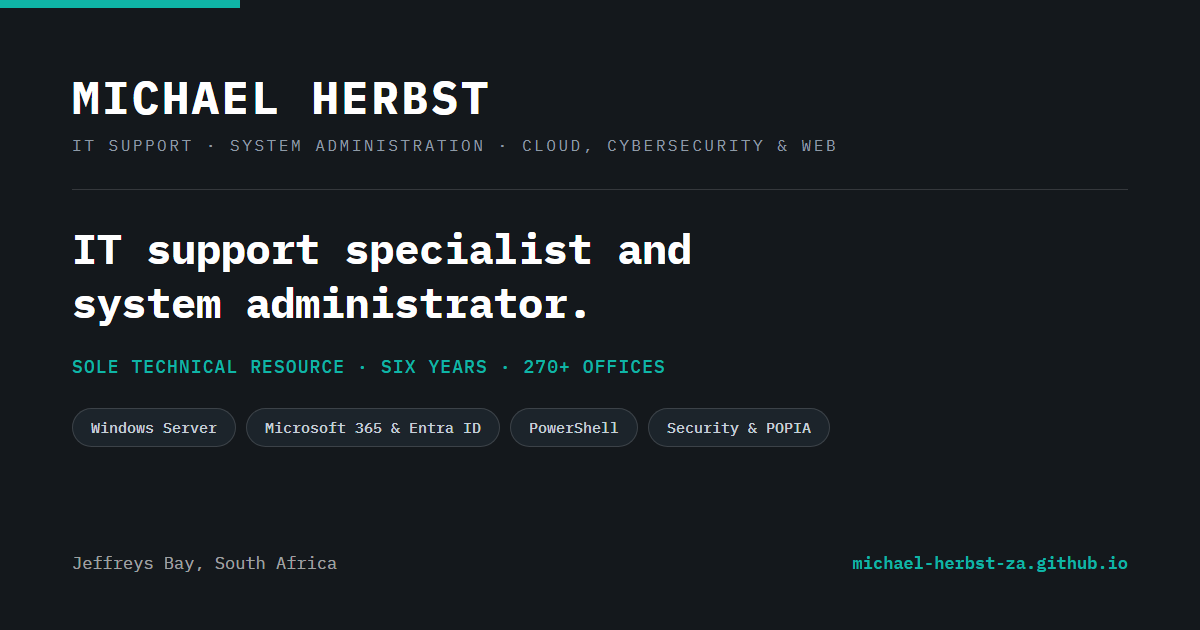
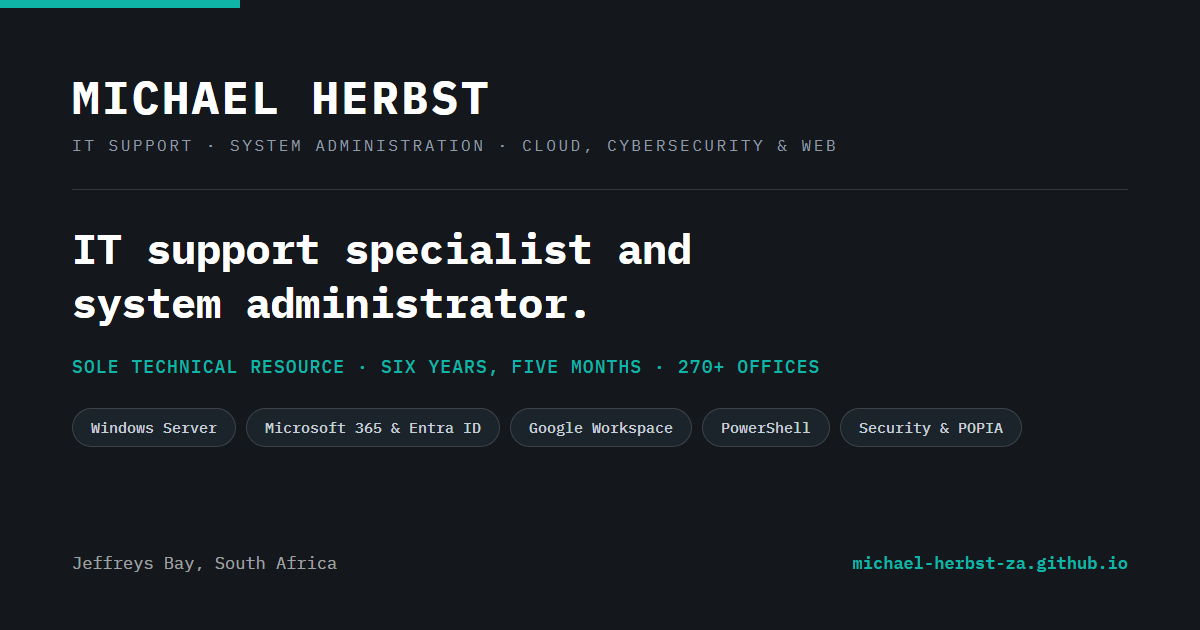
Sync CV site with current locked facts and evidence bank
- Remove YouTube channel "launched" claims across all pages; source
  records conflict on launch status, so wording now matches the CV
  suite's safe framing: proposed and approved video-training and
  user-guide programme.
- Add Google Workspace Business administration (Kouga Digital, sole
  admin) throughout: hero, stat strip, skills rows, experience
  bullets, learning page, JSON-LD, meta descriptions. Previously
  absent from the entire site despite being current confirmed work.
- Add LinkedIn link to every page footer and the index hero/CTA,
  plus JSON-LD sameAs. Part of the default CV contact set but
  missing site-wide.
- Align Civilsoft display dates to December 2019 - May 2026 per the
  30 August 2026 locked-facts ruling, superseding the older
  14 August year-only rule.
- Update README content-source section and site rules to match.
- Bump sitemap.xml lastmod dates.
- Refresh assets/og.png social preview image: add Google Workspace
  chip, "six years, five months" strap.

Changed region(s): [[0.4008, 0.573, 0.6783, 0.6032], [0.4317, 0.6635, 0.6783, 0.6937], [0.7092, 0.6635, 0.8325, 0.6937]]

diff --git a/index.html b/index.html
@@ -4,14 +4,14 @@
   <meta charset="UTF-8">
   <meta name="viewport" content="width=device-width, initial-scale=1.0">
   <title>Michael Herbst &middot; Curriculum Vitae</title>
-  <meta name="description" content="Curriculum vitae of Michael Herbst: IT support specialist and system administrator in Jeffreys Bay, South Africa. Six years as sole technical resource for engineering software used in over 270 offices; Windows Server, Microsoft 365, Entra ID, databases, automation and security.">
+  <meta name="description" content="Curriculum vitae of Michael Herbst: IT support specialist and system administrator in Jeffreys Bay, South Africa. Six years as sole technical resource for engineering software used in over 270 offices; Windows Server, Microsoft 365, Entra ID, Google Workspace, databases, automation and security.">
   <meta name="theme-color" content="#0a7a70">
   <link rel="canonical" href="https://michael-herbst-za.github.io/">
   <link rel="icon" type="image/svg+xml" href="assets/favicon.svg">
   <meta property="og:type" content="profile">
   <meta property="og:site_name" content="Michael Herbst &middot; Curriculum Vitae">
   <meta property="og:title" content="Michael Herbst &middot; IT Support Specialist &amp; System Administrator">
-  <meta property="og:description" content="Six years as the sole technical resource for engineering software used in over 270 South African offices. Windows Server, Microsoft 365 and Entra ID, databases, automation, security and public-sector tendering.">
+  <meta property="og:description" content="Six years as the sole technical resource for engineering software used in over 270 South African offices. Windows Server, Microsoft 365 and Entra ID, Google Workspace, databases, automation, security and public-sector tendering.">
   <meta property="og:url" content="https://michael-herbst-za.github.io/">
   <meta property="og:locale" content="en_ZA">
   <meta property="og:image" content="https://michael-herbst-za.github.io/assets/og.png">
@@ -40,7 +40,7 @@
     "url": "https://michael-herbst-za.github.io/",
     "nationality": "South African",
     "knowsLanguage": ["en", "af", "st"],
-    "sameAs": ["https://www.kougadigital.co.za/"],
+    "sameAs": ["https://www.kougadigital.co.za/", "https://linkedin.com/in/michael-herbst-za"],
     "address": {
       "@type": "PostalAddress",
       "addressLocality": "Jeffreys Bay",
@@ -63,6 +63,7 @@
       "Microsoft 365 administration",
       "Microsoft Entra ID",
       "Microsoft Intune",
+      "Google Workspace administration",
       "VPS administration",
       "Proxmox VE",
       "Hyper-V",
@@ -119,7 +120,8 @@
         across Windows Server and VPS infrastructure, Microsoft 365 and identity administration,
         MySQL and Access databases, PowerShell and Bash automation, and disciplined service-desk
         operations. Now running Kouga Digital, an independent IT, infrastructure, managed services
-        and web practice, while working through CompTIA Security+ and self-directed study across
+        and web practice, where I configured and solely administer the Google Workspace Business
+        environment, while working through CompTIA Security+ and self-directed study across
         cloud, security and AI tooling. Comfortable as the only technical person in a small
         organisation, equally at home resolving a user's ticket and administering the server behind it.
       </p>
@@ -131,7 +133,8 @@
         Jeffreys Bay &middot;
         <a href="tel:+27646765276">+27 64 676 5276</a> &middot;
         <a href="mailto:michael@kougadigital.co.za">michael@kougadigital.co.za</a> &middot;
-        <a href="mailto:michael.anthony.herbst@gmail.com">michael.anthony.herbst@gmail.com</a>
+        <a href="mailto:michael.anthony.herbst@gmail.com">michael.anthony.herbst@gmail.com</a> &middot;
+        <a href="https://linkedin.com/in/michael-herbst-za">LinkedIn</a>
       </p>
     </div>
   </section>
@@ -155,6 +158,10 @@
             <span class="stat-label">Microsoft 365 and identity administration across client and internal tenants.</span>
           </div>
           <div class="stat">
+            <span class="stat-value">Sole Admin</span>
+            <span class="stat-label">Configured and solely administer Kouga Digital's Google Workspace Business environment.</span>
+          </div>
+          <div class="stat">
             <span class="stat-value">SARAO &middot; SARB</span>
             <span class="stat-label">Among the public-sector bodies whose software bids I compiled and submitted.</span>
           </div>
@@ -173,8 +180,8 @@
         </div>
 
         <div class="item-row">
-          <span class="item-label">Microsoft 365, Identity &amp; Endpoint Administration:</span>
-          <p>Microsoft 365 tenant administration at Global Administrator level, covering Exchange Online, SharePoint Online, Teams and OneDrive; Active Directory and Microsoft Entra ID (formerly Azure Active Directory) user, group and role administration; conditional access and multi-factor enrolment; Intune endpoint and device management; licensing, distribution groups and shared mailboxes; Group Policy and Registry administration; device build, imaging and rollout; joiner, mover and leaver account administration with access removal and licence reclamation on exit.</p>
+          <span class="item-label">Cloud Productivity, Identity &amp; Endpoint Administration:</span>
+          <p>Microsoft 365 tenant administration at Global Administrator level, covering Exchange Online, SharePoint Online, Teams and OneDrive; Active Directory and Microsoft Entra ID (formerly Azure Active Directory) user, group and role administration; conditional access and multi-factor enrolment; Intune endpoint and device management; licensing, distribution groups and shared mailboxes; Group Policy and Registry administration; device build, imaging and rollout; joiner, mover and leaver account administration with access removal and licence reclamation on exit. Currently configure and solely administer Kouga Digital's Google Workspace Business environment, with broad capability across the Google Admin console, Gmail, Drive, Meet and Groups.</p>
         </div>
 
         <div class="item-row">
@@ -225,6 +232,7 @@
           <p class="entity-line">Independent IT, Infrastructure, Managed Services &amp; Web Practice &middot; <a href="https://www.kougadigital.co.za/">www.kougadigital.co.za</a></p>
           <ul>
             <li>Independent practice delivering IT support, infrastructure and web work for South African professional-services clients, run solo end to end from scoping through to handover.</li>
+            <li>Configured and solely administer Kouga Digital's Google Workspace Business environment, including ongoing maintenance.</li>
             <li>End-to-end engagement: requirements gathering, content strategy, hand-coded HTML and CSS, accessibility basics, JSON-LD structured data and local SEO, draft regulatory pages (POPIA, ECTA), and WordPress-to-static deployment for cPanel and Softaculous environments.</li>
             <li>Apply production and security checklists to every deployment, and maintain a living snags-and-gotchas record so a fault that has cost time once cannot cost time again.</li>
             <li>Use AI-assisted development and operations tooling to accelerate solo delivery while keeping hand-written, readable production code and configuration.</li>
@@ -232,7 +240,7 @@
         </article>
 
         <article class="card">
-          <p class="card-meta">St Francis Bay, Eastern Cape, South Africa &middot; 2019 &ndash; 2026</p>
+          <p class="card-meta">St Francis Bay, Eastern Cape, South Africa &middot; December 2019 &ndash; May 2026</p>
           <h3>Client Support Administrator <span class="job-employer">&middot; Civilsoft Systems CC</span></h3>
           <ul>
             <li>Sole technical resource for proprietary .NET engineering software used in over 270 South African offices, across six years and five months of continuous service.</li>
@@ -243,7 +251,7 @@
             <li>Managed cloud-hosted MySQL and on-premises Microsoft Access databases for client deployments: query support, backups, restores and integrity checks.</li>
             <li>Built PowerShell and Bash automation and Git-based versioning to streamline support, reporting and documentation tasks.</li>
             <li>Authored and maintained technical documentation, runbooks, training material and user guides; delivered remote and on-site training to non-technical clients.</li>
-            <li>Proposed and launched a YouTube training channel and an updated user-guide programme, formally approved and run alongside primary support duties.</li>
+            <li>Proposed and received approval for an updated video-training and user-guide programme, while continuing primary support duties.</li>
             <li>Owned client onboarding across the full product life cycle, and provided remote and on-site IT support for related companies.</li>
           </ul>
         </article>
@@ -341,7 +349,8 @@
       <p class="cta-note">
         Jeffreys Bay &middot;
         <a href="mailto:michael.anthony.herbst@gmail.com">michael.anthony.herbst@gmail.com</a> &middot;
-        <a href="https://www.kougadigital.co.za/">www.kougadigital.co.za</a>
+        <a href="https://www.kougadigital.co.za/">www.kougadigital.co.za</a> &middot;
+        <a href="https://linkedin.com/in/michael-herbst-za">LinkedIn</a>
       </p>
     </div>
   </section>
@@ -350,7 +359,7 @@
     <div class="wrap">
       <div class="footer-row">
         <span class="footer-brand">MICHAEL HERBST</span>
-        <span class="footer-contact"><a href="mailto:michael@kougadigital.co.za">michael@kougadigital.co.za</a> &middot; <a href="tel:+27646765276">+27 64 676 5276</a></span>
+        <span class="footer-contact"><a href="mailto:michael@kougadigital.co.za">michael@kougadigital.co.za</a> &middot; <a href="tel:+27646765276">+27 64 676 5276</a> &middot; <a href="https://linkedin.com/in/michael-herbst-za">LinkedIn</a></span>
       </div>
       <nav class="footer-nav" aria-label="Footer">
         <a href="index.html">Overview</a>

diff --git a/experience.html b/experience.html
@@ -4,14 +4,14 @@
   <meta charset="UTF-8">
   <meta name="viewport" content="width=device-width, initial-scale=1.0">
   <title>Experience &middot; Michael Herbst</title>
-  <meta name="description" content="Professional experience of Michael Herbst: Founder of Kouga Digital, six years and five months as sole technical resource at Civilsoft Systems CC including the public-sector tender record, and earlier technical and sales roles back to 2014.">
+  <meta name="description" content="Professional experience of Michael Herbst: Founder of Kouga Digital including Google Workspace administration, six years and five months as sole technical resource at Civilsoft Systems CC including the public-sector tender record, and earlier technical and sales roles back to 2014.">
   <meta name="theme-color" content="#0a7a70">
   <link rel="canonical" href="https://michael-herbst-za.github.io/experience.html">
   <link rel="icon" type="image/svg+xml" href="assets/favicon.svg">
   <meta property="og:type" content="article">
   <meta property="og:site_name" content="Michael Herbst &middot; Curriculum Vitae">
   <meta property="og:title" content="Experience &middot; Michael Herbst">
-  <meta property="og:description" content="Sole technical resource for engineering software in 270+ offices, sole compiler of the company's public-sector bids, and founder of an independent IT and web practice.">
+  <meta property="og:description" content="Sole technical resource for engineering software in 270+ offices, sole compiler of the company's public-sector bids, and founder of an independent IT and web practice administering Google Workspace.">
   <meta property="og:url" content="https://michael-herbst-za.github.io/experience.html">
   <meta property="og:locale" content="en_ZA">
   <meta property="og:image" content="https://michael-herbst-za.github.io/assets/og.png">
@@ -76,6 +76,7 @@
           <p class="entity-line">Independent IT, Infrastructure, Managed Services &amp; Web Practice &middot; <a href="https://www.kougadigital.co.za/">www.kougadigital.co.za</a></p>
           <ul>
             <li>Independent practice delivering IT support, infrastructure and web work for South African professional-services clients, run solo end to end from scoping through to handover.</li>
+            <li>Configured and solely administer Kouga Digital's Google Workspace Business environment, including ongoing maintenance, alongside deeper, longer Microsoft 365 production experience.</li>
             <li>Administer client hosting environments hands-on: cPanel and static hosting, DNS and domain management, deployment pipelines linked directly to version control to remove a recurring duplicate-instance failure mode at its root cause, cache-header strategy scoped so returning users are never served a stale stylesheet, and verification of live hosting configuration rather than assumption.</li>
             <li>End-to-end web engagement: requirements gathering, content strategy, hand-coded HTML and CSS, accessibility basics, JSON-LD structured data and local SEO, draft regulatory pages (POPIA, ECTA), and WordPress-to-static deployment for cPanel and Softaculous environments.</li>
             <li>Own the commercial side: rate-card and pricing architecture, transparent sourcing with disclosed handling and no hidden margin, written vendor-spend governance requiring client sign-off before any third-party cost is incurred, and productised services from flat-rate audits to tiered managed-care and retainer plans.</li>
@@ -91,10 +92,10 @@
     <section class="section alt" aria-labelledby="civilsoft-heading">
       <div class="wrap">
         <h2 id="civilsoft-heading"><span class="section-number">02</span> Civilsoft Systems CC</h2>
-        <p class="section-intro">The core of the record: December 2019 to May 2026, presented year-only below in line with the rest of the CV suite.</p>
+        <p class="section-intro">The core of the record: 1 December 2019 to 4 May 2026, six years and five months of continuous service confirmed by the certificate of service.</p>
 
         <article class="card">
-          <p class="card-meta">St Francis Bay, Eastern Cape, South Africa &middot; 2019 &ndash; 2026</p>
+          <p class="card-meta">St Francis Bay, Eastern Cape, South Africa &middot; December 2019 &ndash; May 2026</p>
           <h3>Client Support Administrator <span class="job-employer">&middot; Civilsoft Systems CC</span></h3>
           <ul>
             <li>Sole technical resource for proprietary .NET engineering software used in over 270 South African offices, across six years and five months of continuous service.</li>
@@ -105,7 +106,7 @@
             <li>Managed cloud-hosted MySQL and on-premises Microsoft Access databases for client deployments: query support, backups, restores and integrity checks.</li>
             <li>Built PowerShell and Bash automation and Git-based versioning to streamline support, reporting and documentation tasks.</li>
             <li>Authored and maintained technical documentation, runbooks, training material and user guides; delivered remote and on-site training to non-technical clients.</li>
-            <li>Proposed and launched a YouTube training channel and an updated user-guide programme, formally approved and run alongside primary support duties.</li>
+            <li>Proposed and received approval for an updated video-training and user-guide programme, while continuing primary support duties.</li>
             <li>Deployed and evaluated local AI tooling (Ollama, AnythingLLM, Claude Code) to support scripting, documentation and day-to-day operational workflows.</li>
             <li>Owned client onboarding across the full product life cycle, and provided remote and on-site IT support for related companies.</li>
             <li>Single point of contact for client queries, building durable relationships with non-technical users across the full client lifecycle.</li>
@@ -210,7 +211,7 @@
     <div class="wrap">
       <div class="footer-row">
         <span class="footer-brand">MICHAEL HERBST</span>
-        <span class="footer-contact"><a href="mailto:michael@kougadigital.co.za">michael@kougadigital.co.za</a> &middot; <a href="tel:+27646765276">+27 64 676 5276</a></span>
+        <span class="footer-contact"><a href="mailto:michael@kougadigital.co.za">michael@kougadigital.co.za</a> &middot; <a href="tel:+27646765276">+27 64 676 5276</a> &middot; <a href="https://linkedin.com/in/michael-herbst-za">LinkedIn</a></span>
       </div>
       <nav class="footer-nav" aria-label="Footer">
         <a href="index.html">Overview</a>

diff --git a/skills.html b/skills.html
@@ -4,14 +4,14 @@
   <meta charset="UTF-8">
   <meta name="viewport" content="width=device-width, initial-scale=1.0">
   <title>Skills &middot; Michael Herbst</title>
-  <meta name="description" content="Full skills inventory for Michael Herbst: Windows Server and virtualisation, Microsoft 365 and Entra ID, networking, databases, scripting, information security and compliance, service desk, vendor and procurement, leadership, web, AI and design.">
+  <meta name="description" content="Full skills inventory for Michael Herbst: Windows Server and virtualisation, Microsoft 365 and Entra ID, Google Workspace, networking, databases, scripting, information security and compliance, service desk, vendor and procurement, leadership, web, AI and design.">
   <meta name="theme-color" content="#0a7a70">
   <link rel="canonical" href="https://michael-herbst-za.github.io/skills.html">
   <link rel="icon" type="image/svg+xml" href="assets/favicon.svg">
   <meta property="og:type" content="article">
   <meta property="og:site_name" content="Michael Herbst &middot; Curriculum Vitae">
   <meta property="og:title" content="Skills &middot; Michael Herbst">
-  <meta property="og:description" content="Eighteen skill categories, from Windows Server and Microsoft 365 to security, procurement, leadership, web and AI tooling.">
+  <meta property="og:description" content="Eighteen skill categories, from Windows Server, Microsoft 365 and Google Workspace to security, procurement, leadership, web and AI tooling.">
   <meta property="og:url" content="https://michael-herbst-za.github.io/skills.html">
   <meta property="og:locale" content="en_ZA">
   <meta property="og:image" content="https://michael-herbst-za.github.io/assets/og.png">
@@ -74,6 +74,7 @@
           <li><span class="tag">Active Directory DS</span></li>
           <li><span class="tag">Microsoft Entra ID</span></li>
           <li><span class="tag">Microsoft 365</span></li>
+          <li><span class="tag">Google Workspace</span></li>
           <li><span class="tag">Intune</span></li>
           <li><span class="tag">Exchange Online</span></li>
           <li><span class="tag">SharePoint Online</span></li>
@@ -108,8 +109,8 @@
         </div>
 
         <div class="item-row">
-          <span class="item-label">Microsoft 365, Identity &amp; Endpoint Administration:</span>
-          <p>Microsoft 365 tenant administration at Global Administrator level, covering Exchange Online, SharePoint Online, Teams and OneDrive; Active Directory and Microsoft Entra ID (formerly Azure Active Directory) user, group and role administration; conditional access and multi-factor enrolment; Intune endpoint and device management; licensing, distribution groups and shared mailboxes; Group Policy and Registry administration; device build, imaging and rollout; joiner, mover and leaver account administration with access removal and licence reclamation on exit.</p>
+          <span class="item-label">Cloud Productivity, Identity &amp; Endpoint Administration:</span>
+          <p>Microsoft 365 tenant administration at Global Administrator level, covering Exchange Online, SharePoint Online, Teams and OneDrive; Active Directory and Microsoft Entra ID (formerly Azure Active Directory) user, group and role administration; conditional access and multi-factor enrolment; Intune endpoint and device management; licensing, distribution groups and shared mailboxes; Group Policy and Registry administration; device build, imaging and rollout; joiner, mover and leaver account administration with access removal and licence reclamation on exit. Google Workspace Business administration through the Google Admin console: configured and solely administer Kouga Digital's environment, with broad capability across Gmail, Drive, Meet and Groups, and familiarity with Vault, migrations, Gmail routing, Shared Drives and organisational-unit management.</p>
         </div>
 
         <div class="item-row">
@@ -237,7 +238,7 @@
     <div class="wrap">
       <div class="footer-row">
         <span class="footer-brand">MICHAEL HERBST</span>
-        <span class="footer-contact"><a href="mailto:michael@kougadigital.co.za">michael@kougadigital.co.za</a> &middot; <a href="tel:+27646765276">+27 64 676 5276</a></span>
+        <span class="footer-contact"><a href="mailto:michael@kougadigital.co.za">michael@kougadigital.co.za</a> &middot; <a href="tel:+27646765276">+27 64 676 5276</a> &middot; <a href="https://linkedin.com/in/michael-herbst-za">LinkedIn</a></span>
       </div>
       <nav class="footer-nav" aria-label="Footer">
         <a href="index.html">Overview</a>

diff --git a/learning.html b/learning.html
@@ -128,7 +128,7 @@
           <p class="card-meta">Certification &middot; Held</p>
           <h3>TechSmith Snagit Certification</h3>
           <ul>
-            <li>Certified in advanced screen capture and tutorial production; applied daily across user-guide, training and documentation work, and in the YouTube training channel launched at Civilsoft Systems.</li>
+            <li>Certified in advanced screen capture and tutorial production; applied daily across user-guide, training and documentation work, including the video-training and user-guide programme developed at Civilsoft Systems.</li>
           </ul>
         </article>
 
@@ -165,6 +165,13 @@
           <h3>Microsoft 365, Identity &amp; Endpoint Administration</h3>
           <ul>
             <li>Learned and then run in production as sole administrator: tenant administration at Global Administrator level, Entra ID, conditional access, multi-factor enrolment, Intune-managed endpoints and joiner/mover/leaver administration.</li>
+          </ul>
+        </article>
+
+        <article class="card">
+          <h3>Google Workspace Business Administration</h3>
+          <ul>
+            <li>Configured and solely administer Kouga Digital's Google Workspace Business environment, including ongoing maintenance, alongside deeper, longer Microsoft 365 production experience.</li>
           </ul>
         </article>
       </div>
@@ -213,7 +220,7 @@
     <div class="wrap">
       <div class="footer-row">
         <span class="footer-brand">MICHAEL HERBST</span>
-        <span class="footer-contact"><a href="mailto:michael@kougadigital.co.za">michael@kougadigital.co.za</a> &middot; <a href="tel:+27646765276">+27 64 676 5276</a></span>
+        <span class="footer-contact"><a href="mailto:michael@kougadigital.co.za">michael@kougadigital.co.za</a> &middot; <a href="tel:+27646765276">+27 64 676 5276</a> &middot; <a href="https://linkedin.com/in/michael-herbst-za">LinkedIn</a></span>
       </div>
       <nav class="footer-nav" aria-label="Footer">
         <a href="index.html">Overview</a>

diff --git a/interests.html b/interests.html
@@ -89,7 +89,7 @@
 
         <div class="item-row">
           <span class="item-label">Teaching &amp; Mentoring:</span>
-          <p>Freelance tutoring during tertiary studies, and a continuing enjoyment of breaking down technical concepts for non-technical audiences &mdash; the same instinct behind the training channel and user-guide programme.</p>
+          <p>Freelance tutoring during tertiary studies, and a continuing enjoyment of breaking down technical concepts for non-technical audiences &mdash; the same instinct behind the video-training and user-guide programme.</p>
         </div>
 
         <div class="item-row">
@@ -123,8 +123,8 @@
 
           <article class="card">
             <p class="card-meta">Civilsoft Systems</p>
-            <h3>YouTube training channel</h3>
-            <p>Proposed, formally approved, and launched alongside primary support duties, together with an updated user-guide programme for a non-technical client base.</p>
+            <h3>Video-training &amp; user-guide programme</h3>
+            <p>Proposed and received approval for an updated video-training and user-guide programme for a non-technical client base, developed alongside primary support duties.</p>
           </article>
 
           <article class="card">
@@ -154,7 +154,7 @@
     <div class="wrap">
       <div class="footer-row">
         <span class="footer-brand">MICHAEL HERBST</span>
-        <span class="footer-contact"><a href="mailto:michael@kougadigital.co.za">michael@kougadigital.co.za</a> &middot; <a href="tel:+27646765276">+27 64 676 5276</a></span>
+        <span class="footer-contact"><a href="mailto:michael@kougadigital.co.za">michael@kougadigital.co.za</a> &middot; <a href="tel:+27646765276">+27 64 676 5276</a> &middot; <a href="https://linkedin.com/in/michael-herbst-za">LinkedIn</a></span>
       </div>
       <nav class="footer-nav" aria-label="Footer">
         <a href="index.html">Overview</a>

diff --git a/traits.html b/traits.html
@@ -92,7 +92,7 @@
 
         <div class="item-row">
           <span class="item-label">Trusted to work independently:</span>
-          <p>Sole technical resource for software running in over 270 offices across six years and five months, and sole Microsoft 365 administrator across client and internal tenants. No second-line to escalate to.</p>
+          <p>Sole technical resource for software running in over 270 offices across six years and five months, sole Microsoft 365 administrator across client and internal tenants, and now sole administrator of Kouga Digital's Google Workspace Business environment. No second-line to escalate to.</p>
         </div>
 
         <div class="item-row">
@@ -142,7 +142,7 @@
 
         <div class="item-row">
           <span class="item-label">Independent initiative:</span>
-          <p>Proposed a YouTube training channel and an updated user-guide programme, had both formally approved, and ran them alongside primary support duties.</p>
+          <p>Proposed an updated video-training and user-guide programme, had it formally approved, and delivered it alongside primary support duties.</p>
         </div>
 
         <div class="item-row">
@@ -177,7 +177,7 @@
     <div class="wrap">
       <div class="footer-row">
         <span class="footer-brand">MICHAEL HERBST</span>
-        <span class="footer-contact"><a href="mailto:michael@kougadigital.co.za">michael@kougadigital.co.za</a> &middot; <a href="tel:+27646765276">+27 64 676 5276</a></span>
+        <span class="footer-contact"><a href="mailto:michael@kougadigital.co.za">michael@kougadigital.co.za</a> &middot; <a href="tel:+27646765276">+27 64 676 5276</a> &middot; <a href="https://linkedin.com/in/michael-herbst-za">LinkedIn</a></span>
       </div>
       <nav class="footer-nav" aria-label="Footer">
         <a href="index.html">Overview</a>

diff --git a/404.html b/404.html
@@ -56,7 +56,7 @@
     <div class="wrap">
       <div class="footer-row">
         <span class="footer-brand">MICHAEL HERBST</span>
-        <span class="footer-contact"><a href="mailto:michael@kougadigital.co.za">michael@kougadigital.co.za</a> &middot; <a href="tel:+27646765276">+27 64 676 5276</a></span>
+        <span class="footer-contact"><a href="mailto:michael@kougadigital.co.za">michael@kougadigital.co.za</a> &middot; <a href="tel:+27646765276">+27 64 676 5276</a> &middot; <a href="https://linkedin.com/in/michael-herbst-za">LinkedIn</a></span>
       </div>
       <nav class="footer-nav" aria-label="Footer">
         <a href="/index.html">Overview</a>

diff --git a/assets/og-source.html b/assets/og-source.html
@@ -62,10 +62,11 @@
     </div>
     <div class="rule"></div>
     <h1>IT support specialist and system administrator.</h1>
-    <div class="strap">Sole technical resource &middot; six years &middot; 270+ offices</div>
+    <div class="strap">Sole technical resource &middot; six years, five months &middot; 270+ offices</div>
     <div class="chips">
       <span class="chip">Windows Server</span>
       <span class="chip">Microsoft 365 &amp; Entra ID</span>
+      <span class="chip">Google Workspace</span>
       <span class="chip">PowerShell</span>
       <span class="chip">Security &amp; POPIA</span>
     </div>

diff --git a/README.md b/README.md
@@ -18,17 +18,19 @@ Every page shares the same header (wordmark, descriptor, button navigation with 
 
 ## Content source
 
-Page content is derived from the canonical CV content archive (`CV_Content_Status_Index.md` and its seven companion files), regenerated 17 August 2026 after the CV suite was cut from thirteen variants to five. Where the archive and an individual CV markdown file disagree, **the archive is authoritative** — some CV markdown exports predate the August upgrade and the 17 August contact-line ruling.
+Page content is derived from the canonical job-search content set held outside this repo: `01_LOCKED_FACTS.md` (identity, dates, titles, guardrails) and `02_EVIDENCE_BANK.md` (claim scope and reusable evidence), cross-checked against the active six-variant CV suite (`Michael_Herbst_Active_CV_Suite_Index.md` and its Markdown baselines). Site content was last reconciled against that set on 3 September 2026. Where the locked-facts/evidence files and a CV markdown export disagree, **the locked-facts and evidence files are authoritative** — a CV markdown file does not itself prove a claim merely by repeating it.
 
 Rules the site content must keep to:
 
-- Employment title is exactly `Client Support Administrator`, with no parenthetical appended.
+- Employment title is exactly `Client Support Administrator`, with no parenthetical appended in the job-title line (the "sole IT operations and infrastructure resource" framing is stated in the bullets below it instead).
 - No vehicle, own-transport or reliable-transport claim anywhere. The Code 08 licence and the Jeffreys Bay base may be stated.
 - "Discontinued" against the B.Com. Law entry carries no reason, anywhere.
 - "Self-taught" appears in the learning material only, never in a skills row or summary.
 - Beginner and actively-learning languages live on `learning.html`, never in a skills row.
-- Civilsoft dates are presented year-only (2019 – 2026) per the 14 August 2026 ruling.
+- Civilsoft dates are presented as `December 2019 – May 2026` per the 30 August 2026 locked-facts ruling, which supersedes the earlier 14 August 2026 year-only rule. The `6 yrs 5 mo` / "six years and five months" framing continues alongside it.
 - No reason is volunteered for any role ending.
+- The Civilsoft video-training/user-guide programme is described as **proposed and approved**, never as "launched" or a "channel" — source records conflict on whether it went live, so the site uses the same safe wording as the CV suite until that is confirmed.
+- Kouga Digital's Google Workspace Business administration (configured and solely administered by Michael, including ongoing maintenance) is current production experience and appears alongside the Microsoft 365 material on the overview, skills, experience and learning pages. It is stated as a single environment only — never plural Workspace tenants, external-client administration, or feature-specific delivery (Vault, migrations, Gmail routing, Shared Drives, organisational units are familiarity-only, not administered claims).
 
 ## Design system
 
